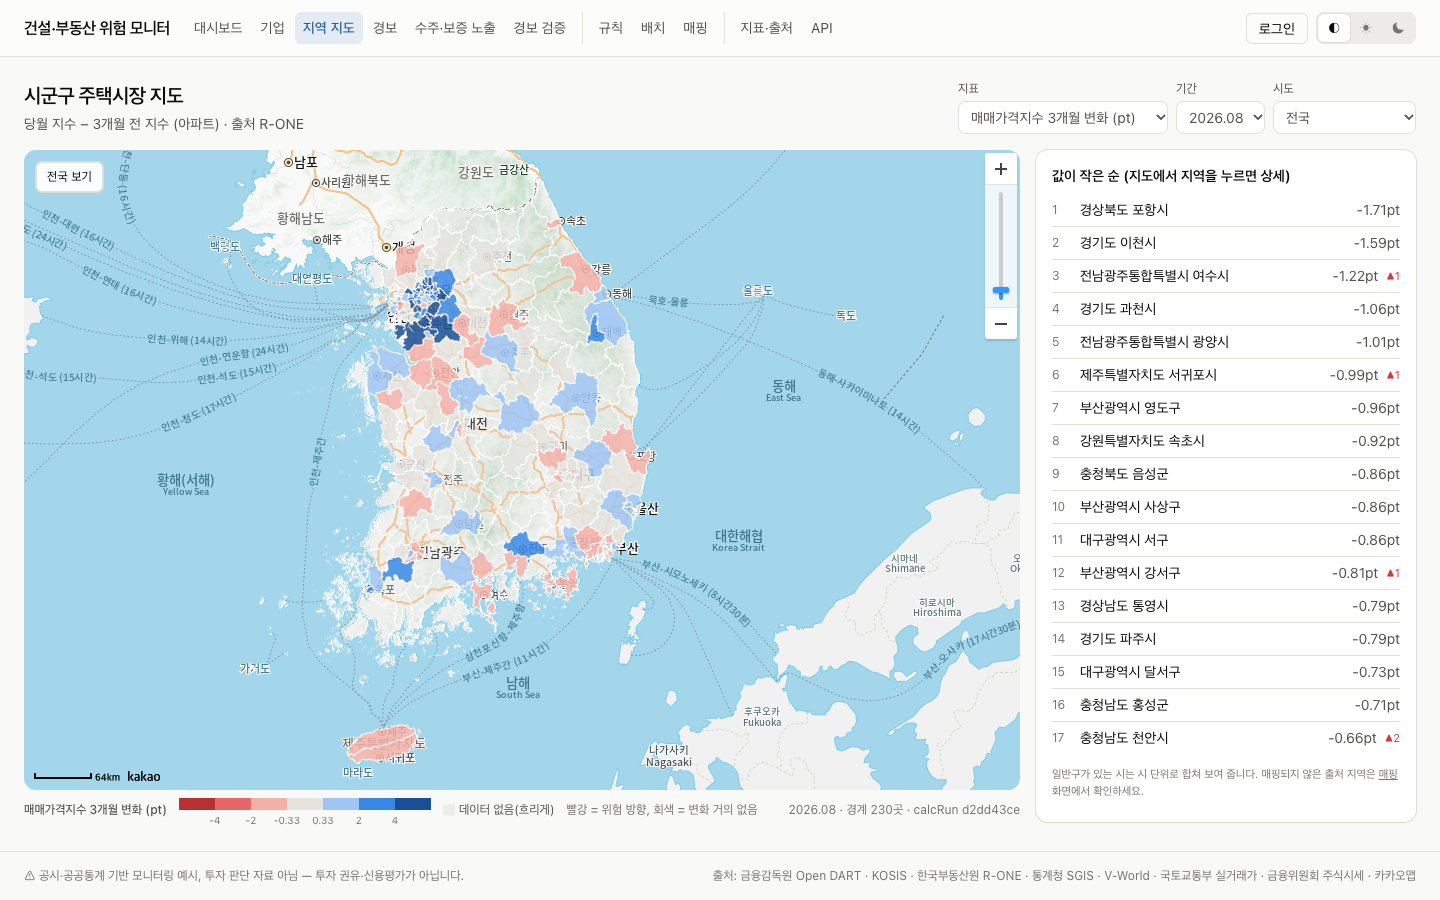
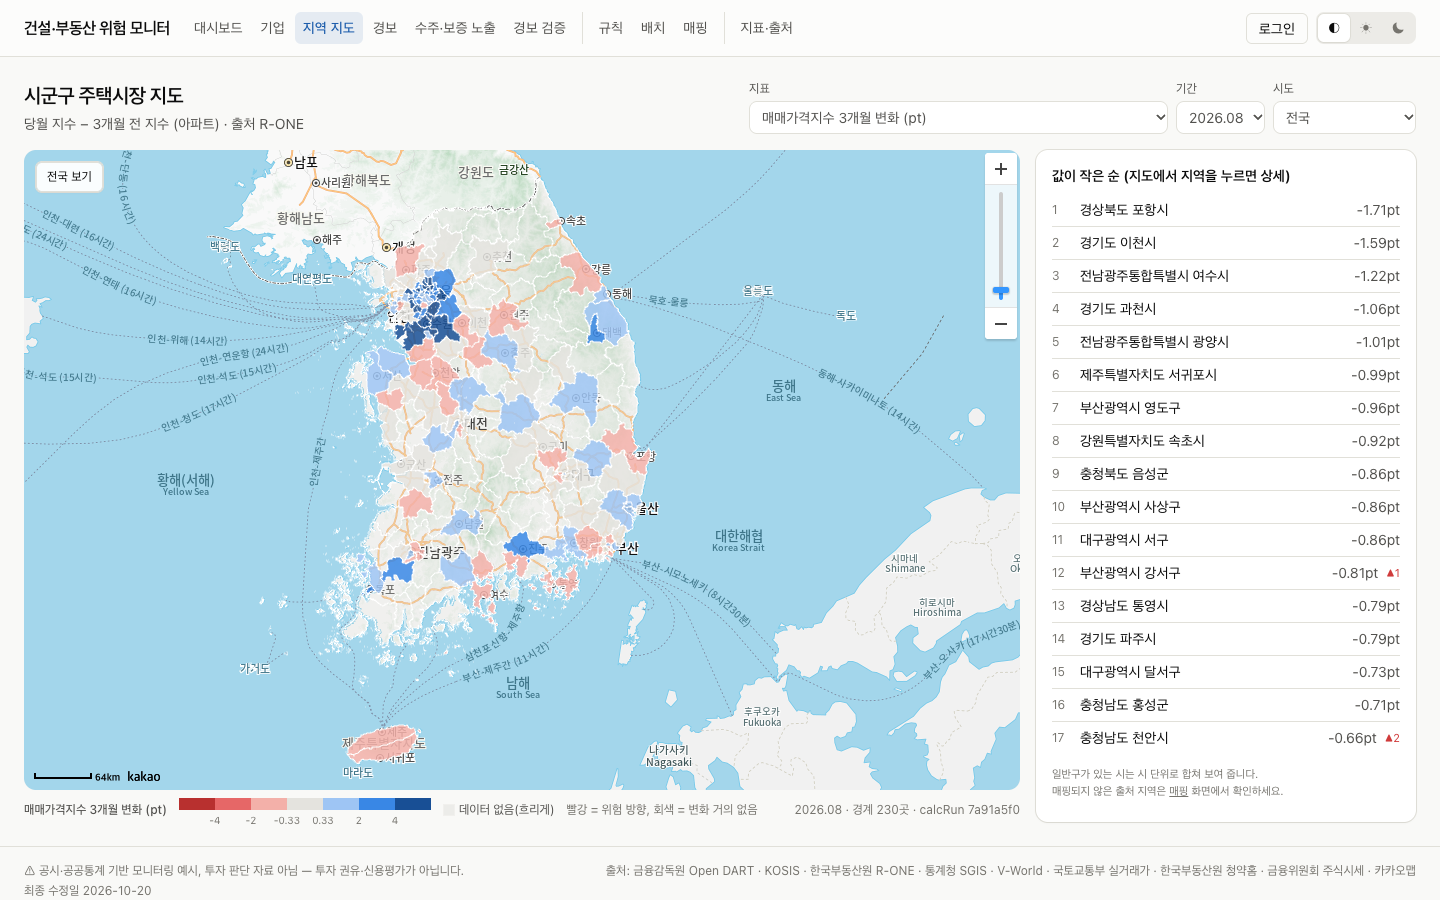
feat(web): API 안내 화면(/developers)을 없앰 — 대시보드 문구 · E2E · README 화면 캡처 (ADR-027 덧붙임)
- 사용자 결정: 상단 메뉴에 이어 화면도 뺌. 읽기 API · CSV · 계보는 그대로, 명세는 Swagger UI(지표·출처 화면 링크), v1 호환 정책은 ADR-027 이 기준
- 대시보드 투자 · 분석 칸의 'API · CSV' 링크 → '목록은 CSV 로 내려받을 수 있습니다'
- E2E: API 안내 테스트를 '메뉴 · 대시보드에 링크 없음 · /developers 404' 로 바꿈 (57/57)
- README 기능 표 · 주소 표 · E2E 줄, ADR-027 덧붙임 · ADR 표, docs/images 18장을 새 머리말(API 메뉴 없음)로 다시 찍음
- 테스트: 백엔드 384/384(변경 없음, cleanTest 로 다시 돌림) · 웹 타입 검사 · ESLint · 단위 56/56 · E2E 57/57

diff --git a/web/e2e/insight.spec.ts b/web/e2e/insight.spec.ts
@@ -107,7 +107,7 @@ test("좁은 화면: 메뉴 버튼으로 이동", async ({ page }) => {
   await expect(page).toHaveURL(/\/backtest/);
 });
 
-// ADR-027 근거 계보 · 내려받기 · API 안내
+// ADR-027 근거 계보 · 내려받기
 test("근거 계보: 경보 상세에서 원천 재무제표 줄 · 매핑 규칙 · 실행까지", async ({ page, request }) => {
   const res = await request.get("/api/v1/alerts?ruleCode=R-C02&status=OPEN,ACK,CLOSED&size=1");
   const id = (await res.json()).items[0].alertId as number;
@@ -129,15 +129,14 @@ test("CSV 내려받기: 경보 목록 버튼이 BOM 으로 시작하는 CSV 를 
   expect(body.toString("utf8", 3, 40)).toContain('"alertId","ruleCode"');
 });
 
-test("API 안내: 상단 메뉴에는 없고 대시보드 링크에서 열어 근거 계보 · CSV 규칙 · 호환 정책", async ({ page }) => {
+test("API 안내 화면은 없음: 메뉴 · 대시보드에 링크가 없고 /developers 는 404 (ADR-027 덧붙임)", async ({ page }) => {
   await page.goto("/");
-  await expect(page.getByRole("navigation", { name: "주 메뉴" }).getByRole("link", { name: "지표·출처" })).toBeVisible();
-  await expect(page.getByRole("navigation", { name: "주 메뉴" }).getByRole("link", { name: "API", exact: true })).toHaveCount(0);
-  await page.getByRole("link", { name: "API · CSV" }).click();
-  await expect(page.getByRole("heading", { name: /API 안내/ })).toBeVisible();
-  await expect(page.getByRole("cell", { name: "GET /alerts/{alertId}/lineage" })).toBeVisible();
-  await expect(page.getByRole("heading", { name: "CSV 규칙" })).toBeVisible();
-  await expect(page.getByRole("heading", { name: "호환 정책 (v1)" })).toBeVisible();
+  const nav = page.getByRole("navigation", { name: "주 메뉴" });
+  await expect(nav.getByRole("link", { name: "지표·출처" })).toBeVisible();
+  await expect(nav.getByRole("link", { name: "API", exact: true })).toHaveCount(0);
+  await expect(page.getByText(/목록은 CSV 로 내려받을 수 있습니다/)).toBeVisible();
+  await expect(page.locator('a[href="/developers"]')).toHaveCount(0);
+  expect((await page.goto("/developers"))?.status()).toBe(404);
 });
 
 // 사용자별 진입점 (대시보드)

diff --git a/web/components/PersonaEntry.tsx b/web/components/PersonaEntry.tsx
@@ -61,7 +61,7 @@ export default function PersonaEntry({ p }: { p: Personas }) {
         </Persona>
 
         <Persona who="투자 · 분석" question="이 경보는 실제 부실을 얼마나 먼저 잡았나?"
-          foot={<>모든 경보는 <Link href="/alerts" className="text-accent hover:underline">원천 재무제표 줄까지</Link> 거슬러 오를 수 있고, <Link href="/developers" className="text-accent hover:underline">API · CSV</Link> 로 가져갈 수 있습니다.</>}>
+          foot={<>모든 경보는 <Link href="/alerts" className="text-accent hover:underline">원천 재무제표 줄까지</Link> 거슬러 오를 수 있고, 목록은 CSV 로 내려받을 수 있습니다.</>}>
           {!inv ? <p className="text-xs text-muted">성적표를 계산할 데이터가 아직 없습니다.</p> : (
             <>
               <div className="grid grid-cols-2 gap-3">

diff --git a/docs/adr/README.md b/docs/adr/README.md
@@ -28,7 +28,7 @@
 | [024](024-pf-contingent-liabilities.md) | PF 우발채무 — 정기보고서 부동산 PF 종합요약표 구조화(구간 스트리밍 · 두 가지 대조), R-C06 | 채택 |
 | [025](025-notifications.md) | 알림 — 경보와 같은 트랜잭션의 outbox, 알림함 · 서명된 웹훅(SSRF 방어 · 저장 암호화 · 재시도) | 채택 |
 | [026](026-site-location.md) | 사업장 카드 — 지오코딩 없이 공시 주소의 법정동 · 지번을 실거래와 정확히 대조, 동 단위 시장 — 입주 예정 물량은 청약홈 공고 단지 기준 하한으로 부분 해소(ADR-032) | 채택 |
-| [027](027-lineage-export.md) | 근거 계보(경보 → 원천 재무제표 줄 · 매핑 규칙 · 실행) · CSV 내려받기(수식 주입 방어) · v1 호환 정책 — v1 안의 두 변경(D1 수동 정리 409 · D2 riskShare 필드 추가) 기록 | 채택 |
+| [027](027-lineage-export.md) | 근거 계보(경보 → 원천 재무제표 줄 · 매핑 규칙 · 실행) · CSV 내려받기(수식 주입 방어) · v1 호환 정책 — v1 안의 두 변경(D1 수동 정리 409 · D2 riskShare 필드 추가) 기록 · API 안내 화면은 없앰(덧붙임) | 채택 |
 | [028](028-nextjs16-bundler.md) | Next.js 16 으로(15 지원 종료) — 운영 빌드는 webpack(첫 로드 JS 104 KB, Turbopack 은 116 KB) | 채택 |
 | [029](029-backend-feature-modules.md) | 백엔드를 기능 모듈 11개(presale 추가) × 계층(api · app · domain · data)으로 — 의존 방향 · domain 순수성 · 쓰기 SQL 위치를 테스트로 고정, 경보 전이는 순수 규칙 — 바깥 계층은 ops.* 에만 씀 | 채택 |
 | [030](030-frontend-layers.md) | 프론트엔드를 화면 · Hook · 순수 함수 · 기능별 API 모듈로 — 경계는 ESLint, 조회 응답은 경로에 묶음, 효과 안 setState 없음 — 상대 경로 · window/globalThis.fetch 우회도 막음 | 채택 |

diff --git a/docs/adr/027-lineage-export.md b/docs/adr/027-lineage-export.md
@@ -51,3 +51,7 @@
 - `GET /api/v1/companies/{c}/filings` 에 `riskShare`(경보 R-X01 과 같은 계산의 위험 지역 수주 비중)를 **더했다**(필드 추가 — 호환).
   `GET /api/v1/exposure` 의 `days` · `unsoldPer1kHh` 를 주지 않으면 **R-X01 의 최신 파라미터**를 쓴다(전에는 365 · 5 고정 — 규칙이 기본값이면 같음).
   노출 CSV(`/api/v1/export/exposure.csv`)도 같고, 노출 화면은 고르기 전에는 비워 보내 서버 기본값을 받는다(VERIFICATION 208 — 처음엔 API 에만 넣었음).
+
+**덧붙임 (2026-10-20, 사용자 결정) — API 안내 화면 `/developers` 를 없앰**
+- 상단 메뉴의 'API' 와 화면을 뺐다(대시보드의 'API · CSV' 링크도). 읽기 API · CSV 내려받기 · 계보는 그대로이고, 엔드포인트 명세는 Swagger UI
+  (`/swagger-ui/index.html`, 지표·출처 화면의 링크), v1 호환 정책은 위 3 이 기준이다. `/developers` 는 404 — E2E 가 메뉴 · 대시보드에 링크가 없음과 함께 확인.
